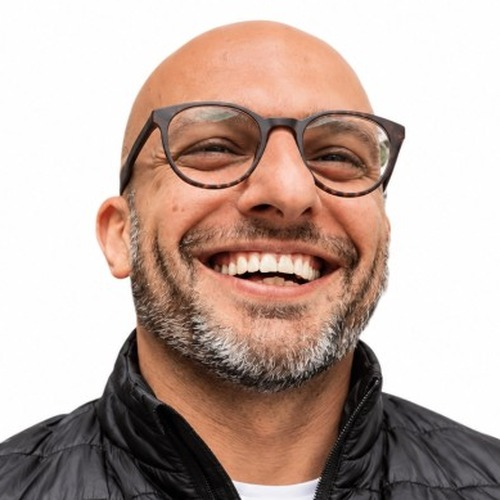
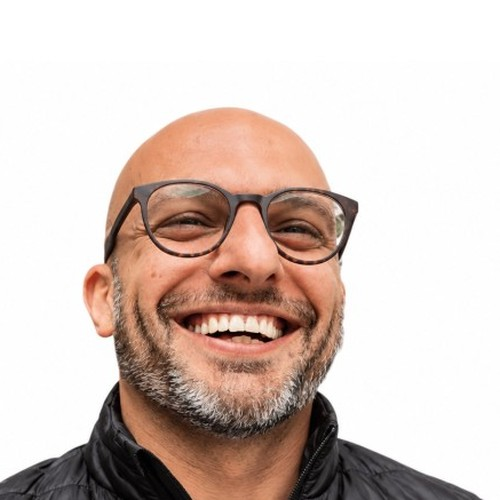
Tym: 6 novych portretu z originalu (Petr, Stella, Jelena, Karlie, Kathleen, Filip), Marv preorezan na standard 53% obliceje, pryc neaktualni spolecna fotka z hero

diff --git a/en/nas-tym.html b/en/nas-tym.html
@@ -143,18 +143,6 @@
       font-weight: 600;
     }
     .nt-hero__badge::before { content: "✓ "; color: var(--c-yellow); font-weight: 800; }
-    .nt-hero__photo {
-      border-radius: 24px;
-      overflow: hidden;
-      border: 2px solid var(--c-yellow);
-      box-shadow: 0 12px 40px rgba(0,0,0,0.25);
-      aspect-ratio: 21/9;
-      margin-top: var(--space-md);
-    }
-    .nt-hero__photo img { width: 100%; height: 100%; object-fit: cover; display: block; }
-    @media (max-width: 720px) {
-      .nt-hero__photo { aspect-ratio: 16/9; border-radius: 18px; }
-    }
 
     /* INTRO */
     .nt-intro {
@@ -347,7 +335,6 @@
     @media (max-width: 880px) {
       .nt-hero { padding: 56px 0 70px; border-radius: 0 0 24px 24px; }
       .nt-hero__grid { grid-template-columns: 1fr; gap: var(--space-lg); }
-      .nt-hero__photo { max-width: 420px; margin: 0 auto; }
       .nt-intro { padding: 64px 0; }
       .nt-intro__text { font-size: 1.3rem; }
       .nt-team { padding: 64px 0; }
@@ -464,9 +451,6 @@
           </div>
         </div>
 
-        <div class="nt-hero__photo">
-          <img src="../images/nase-skola/tym/flow-team.jpg" alt="FLOW teaching team" loading="eager">
-        </div>
 
       </div>
     </div>
@@ -562,13 +546,13 @@
           <p class="nt-card__role">Class teacher, Andromeda (upper school)</p>
         </article>
         <article class="nt-card" data-category="ucitele">
-          <div class="nt-card__photo nt-card__photo--ph" aria-hidden="true"><span>PH</span></div>
+          <div class="nt-card__photo"><img src="../images/nase-skola/tym/petr-2026.jpg?v=3" alt="Petr Hodonský" loading="lazy" width="500" height="500"></div>
           <span class="nt-card__cat">Teachers</span>
           <h3 class="nt-card__name">Petr Hodonský</h3>
           <p class="nt-card__role">Czech language, upper school</p>
         </article>
         <article class="nt-card" data-category="ucitele">
-          <div class="nt-card__photo"><img src="../images/nase-skola/tym/filip.jpg?v=3" alt="Filip Brunclík" loading="lazy" width="500" height="500"></div>
+          <div class="nt-card__photo"><img src="../images/nase-skola/tym/filip-2026.jpg?v=3" alt="Filip Brunclík" loading="lazy" width="500" height="500"></div>
           <span class="nt-card__cat">Teachers</span>
           <h3 class="nt-card__name">Filip Brunclík</h3>
           <p class="nt-card__role">PE teacher</p>
@@ -588,19 +572,19 @@
 
         <!-- LANGUAGES -->
         <article class="nt-card" data-category="jazyky">
-          <div class="nt-card__photo"><img src="../images/nase-skola/tym/kathleen.jpg?v=3" alt="Kathleen Moore" loading="lazy" width="500" height="500"></div>
+          <div class="nt-card__photo"><img src="../images/nase-skola/tym/kathleen-2026.jpg?v=3" alt="Kathleen Moore" loading="lazy" width="500" height="500"></div>
           <span class="nt-card__cat">Languages</span>
           <h3 class="nt-card__name">Kathleen Moore</h3>
           <p class="nt-card__role">English Teacher</p>
         </article>
         <article class="nt-card" data-category="jazyky">
-          <div class="nt-card__photo"><img src="../images/nase-skola/tym/karlie.jpg?v=3" alt="Karlienke Durandt" loading="lazy" width="500" height="500"></div>
+          <div class="nt-card__photo"><img src="../images/nase-skola/tym/karlie-2026.jpg?v=3" alt="Karlienke Durandt" loading="lazy" width="500" height="500"></div>
           <span class="nt-card__cat">Languages</span>
           <h3 class="nt-card__name">Karlienke Durandt</h3>
           <p class="nt-card__role">English Teacher</p>
         </article>
         <article class="nt-card" data-category="jazyky">
-          <div class="nt-card__photo"><img src="../images/nase-skola/tym/jelena.jpg?v=3" alt="Jelena Radojevic" loading="lazy" width="500" height="500"></div>
+          <div class="nt-card__photo"><img src="../images/nase-skola/tym/jelena-2026.jpg?v=3" alt="Jelena Radojevic" loading="lazy" width="500" height="500"></div>
           <span class="nt-card__cat">Languages</span>
           <h3 class="nt-card__name">Jelena Radojevic</h3>
           <p class="nt-card__role">English Teacher</p>
@@ -634,7 +618,7 @@
 
         <!-- SUPPORT -->
         <article class="nt-card" data-category="podpora">
-          <div class="nt-card__photo"><img src="../images/nase-skola/tym/stella.jpg?v=3" alt="Stella Viková" loading="lazy" width="500" height="500"></div>
+          <div class="nt-card__photo"><img src="../images/nase-skola/tym/stella-2026.jpg?v=3" alt="Stella Viková" loading="lazy" width="500" height="500"></div>
           <span class="nt-card__cat">Support</span>
           <h3 class="nt-card__name">Stella Viková</h3>
           <p class="nt-card__role">Special-needs teacher</p>

diff --git a/nas-tym.html b/nas-tym.html
@@ -143,18 +143,6 @@
       font-weight: 600;
     }
     .nt-hero__badge::before { content: "✓ "; color: var(--c-yellow); font-weight: 800; }
-    .nt-hero__photo {
-      border-radius: 24px;
-      overflow: hidden;
-      border: 2px solid var(--c-yellow);
-      box-shadow: 0 12px 40px rgba(0,0,0,0.25);
-      aspect-ratio: 21/9;
-      margin-top: var(--space-md);
-    }
-    .nt-hero__photo img { width: 100%; height: 100%; object-fit: cover; display: block; }
-    @media (max-width: 720px) {
-      .nt-hero__photo { aspect-ratio: 16/9; border-radius: 18px; }
-    }
 
     /* INTRO */
     .nt-intro {
@@ -347,7 +335,6 @@
     @media (max-width: 880px) {
       .nt-hero { padding: 56px 0 70px; border-radius: 0 0 24px 24px; }
       .nt-hero__grid { grid-template-columns: 1fr; gap: var(--space-lg); }
-      .nt-hero__photo { max-width: 420px; margin: 0 auto; }
       .nt-intro { padding: 64px 0; }
       .nt-intro__text { font-size: 1.3rem; }
       .nt-team { padding: 64px 0; }
@@ -464,9 +451,6 @@
           </div>
         </div>
 
-        <div class="nt-hero__photo">
-          <img src="images/nase-skola/tym/flow-team.jpg" alt="Pedagogický tým FLOW" loading="eager">
-        </div>
 
       </div>
     </div>
@@ -562,13 +546,13 @@
           <p class="nt-card__role">Učitel třídy Andromeda, 2. stupeň</p>
         </article>
         <article class="nt-card" data-category="ucitele">
-          <div class="nt-card__photo nt-card__photo--ph" aria-hidden="true"><span>PH</span></div>
+          <div class="nt-card__photo"><img src="images/nase-skola/tym/petr-2026.jpg?v=3" alt="Petr Hodonský" loading="lazy" width="500" height="500"></div>
           <span class="nt-card__cat">Učitelé</span>
           <h3 class="nt-card__name">Petr Hodonský</h3>
           <p class="nt-card__role">Učitel ČJ, 2. stupeň</p>
         </article>
         <article class="nt-card" data-category="ucitele">
-          <div class="nt-card__photo"><img src="images/nase-skola/tym/filip.jpg?v=3" alt="Filip Brunclík" loading="lazy" width="500" height="500"></div>
+          <div class="nt-card__photo"><img src="images/nase-skola/tym/filip-2026.jpg?v=3" alt="Filip Brunclík" loading="lazy" width="500" height="500"></div>
           <span class="nt-card__cat">Učitelé</span>
           <h3 class="nt-card__name">Filip Brunclík</h3>
           <p class="nt-card__role">Učitel TV</p>
@@ -588,19 +572,19 @@
 
         <!-- JAZYKY -->
         <article class="nt-card" data-category="jazyky">
-          <div class="nt-card__photo"><img src="images/nase-skola/tym/kathleen.jpg?v=3" alt="Kathleen Moore" loading="lazy" width="500" height="500"></div>
+          <div class="nt-card__photo"><img src="images/nase-skola/tym/kathleen-2026.jpg?v=3" alt="Kathleen Moore" loading="lazy" width="500" height="500"></div>
           <span class="nt-card__cat">Jazyky</span>
           <h3 class="nt-card__name">Kathleen Moore</h3>
           <p class="nt-card__role">English Teacher</p>
         </article>
         <article class="nt-card" data-category="jazyky">
-          <div class="nt-card__photo"><img src="images/nase-skola/tym/karlie.jpg?v=3" alt="Karlienke Durandt" loading="lazy" width="500" height="500"></div>
+          <div class="nt-card__photo"><img src="images/nase-skola/tym/karlie-2026.jpg?v=3" alt="Karlienke Durandt" loading="lazy" width="500" height="500"></div>
           <span class="nt-card__cat">Jazyky</span>
           <h3 class="nt-card__name">Karlienke Durandt</h3>
           <p class="nt-card__role">English Teacher</p>
         </article>
         <article class="nt-card" data-category="jazyky">
-          <div class="nt-card__photo"><img src="images/nase-skola/tym/jelena.jpg?v=3" alt="Jelena Radojevic" loading="lazy" width="500" height="500"></div>
+          <div class="nt-card__photo"><img src="images/nase-skola/tym/jelena-2026.jpg?v=3" alt="Jelena Radojevic" loading="lazy" width="500" height="500"></div>
           <span class="nt-card__cat">Jazyky</span>
           <h3 class="nt-card__name">Jelena Radojevic</h3>
           <p class="nt-card__role">English Teacher</p>
@@ -634,7 +618,7 @@
 
         <!-- DRUŽINA A PODPORA -->
         <article class="nt-card" data-category="podpora">
-          <div class="nt-card__photo"><img src="images/nase-skola/tym/stella.jpg?v=3" alt="Stella Viková" loading="lazy" width="500" height="500"></div>
+          <div class="nt-card__photo"><img src="images/nase-skola/tym/stella-2026.jpg?v=3" alt="Stella Viková" loading="lazy" width="500" height="500"></div>
           <span class="nt-card__cat">Družina a podpora</span>
           <h3 class="nt-card__name">Stella Viková</h3>
           <p class="nt-card__role">Speciální pedagožka</p>
